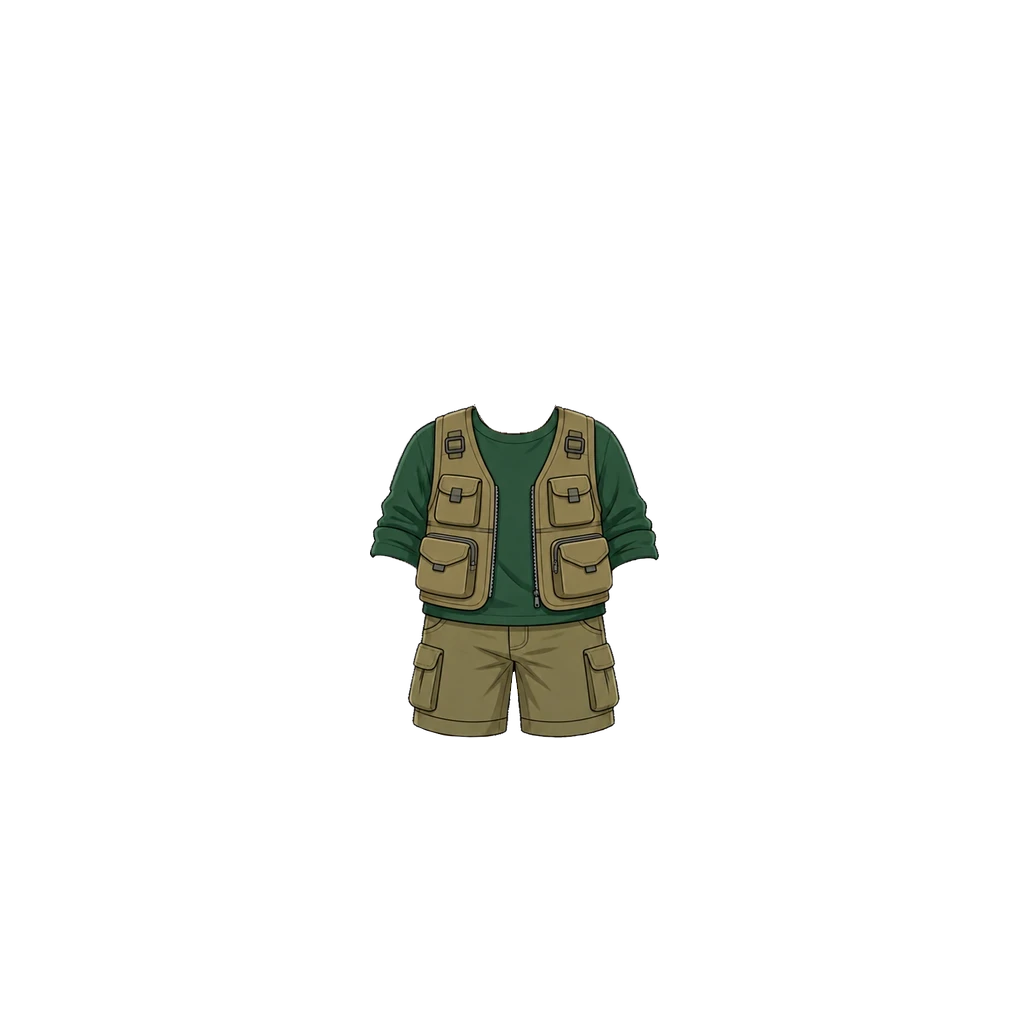
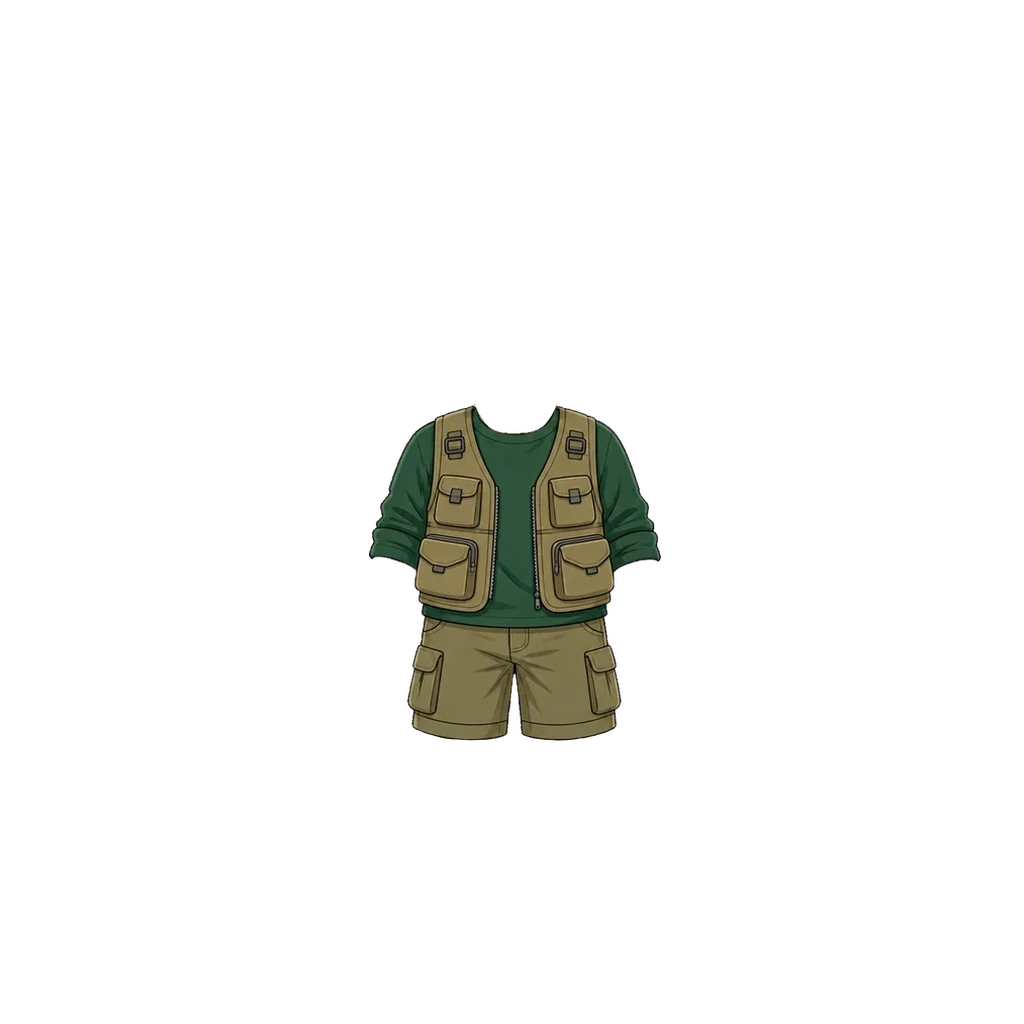
남아 사파리 옷: 1% 확대 (#742)
* 해적 신발 크기·위치 재조정 (베이스 다리 비율에 맞춤)

- 해적 남아 원화와 비교해 베이스가 다리가 짧고 가늘어서, 신발 높이를 112로
  줄이고 윗선을 y827에 맞춤(발바닥 y939)
- 왼짝·오른짝을 따로 배치해 발별로 미세 조정할 수 있게 함
- 같은 파일명이라 경로에 ?v=2

Claude-Session: https://claude.ai/code/session_018maNuYqDfFyRSe9uKpZhPR

* 오늘의 발견을 수첩에 붙인 메모지 디자인으로 변경

- 크림색 종이 질감 + 연두 마스킹테이프, 테두리 없이 그림자·거친 가장자리로만 표현
- 수첩보다 살짝 좁게, '오늘의 발견'은 작게 · 발견 내용은 진한 갈색으로 크게
- 도감 버튼을 오른쪽 작은 알약 버튼(도감 N개 ›)으로
- '탐험일지' 머리말 아래 · 수첩 바로 위로 이동
- App.jsx에서 DiscoveryMemo 컴포넌트로 분리

Claude-Session: https://claude.ai/code/session_018maNuYqDfFyRSe9uKpZhPR

* 오늘의 발견 메모지: 글씨 줄이고 테이프를 왼쪽 위 모서리 대각선으로

- 발견 내용 16.5 → 14 (폰에서 짧은 힌트도 두 줄로 꺾이던 문제), 머리말·도감 버튼·아이콘도 한 단계씩
- 위쪽 가운데 테이프가 '탐험일지' 머리말 줄과 겹쳐 보여 왼쪽 위 모서리에 대각선으로

Claude-Session: https://claude.ai/code/session_018maNuYqDfFyRSe9uKpZhPR

* 오늘의 발견 메모지: 힌트 날의 발자국 아이콘 제거

발자국 자리만큼 힌트가 한 줄에 더 들어가게 함. 찾은 날의 발견 이모지는 유지.

Claude-Session: https://claude.ai/code/session_018maNuYqDfFyRSe9uKpZhPR

* 남아 아바타 기본 몸체 새 버전으로 교체

사용자 제공 원화(갈색 짧은 머리)로 body.webp 업데이트.
버전을 v8 → v9로 올려 기존 기기 캐시 무효화.
art-src/body-boy-src.webp에 원본 보관 (webp q92).

Claude-Session: https://claude.ai/code/session_018maNuYqDfFyRSe9uKpZhPR

* 남아 베이스 v9 탑재 바로잡기 (머리 겹침·비율 깨짐 수정)

직전 커밋은 원화(머리 포함 전신)를 1024×1024로 통째로 늘려 body.webp에 넣어
베이스 머리가 그 위에 또 그려지고 몸 비율도 깨졌다. v8과 같은 공식으로 다시 탑재:
- 알파 상자를 v8 자리(y89~942, 가로 중심 512)에 맞춤 — 실루엣 IoU 0.976이라 장비 재조정 불필요
- y405에서 가로로 잘라 head/body, 합본 default까지 3장 교체, 경로 ?v=9
- art-src: base-v9-boy-src.webp로 이름 정리, 규칙 6에 따라 base-v8-boy-src 삭제
[…]

Changed region(s): [[0.375, 0.4062, 0.6562, 0.75]]

diff --git a/src/data/avatarEquipment.js b/src/data/avatarEquipment.js
@@ -208,9 +208,10 @@ export const AVATAR_CATALOG = [
      베이스 v9 남아에 맞춰 배율 0.65 · 가로 1.02배 · 위끝 y402 · 중심 515 로 넣은 뒤, 사용자가 격자로 보며
      2% 키우고 2px 내려 확정 — 배율 0.663 · 가로 1.02배 · 위끝 y404 · 중심 515 (art-src/README 참고).
      [2026-10-02] 다시 1% 줄이고 왼쪽 1px(배율 0.6564 · 중심 514) → 사용자가 그 판의 어깨를 직접 늘려
-     보내 준 그림을 그대로 (370,404) 에 얹었다(safari-boy-outfit-edit-src).
-     가랑이 V 메움은 하지 않는다 — 사용자가 기본 아바타를 바꿀 예정이라 (사용자 확정). */
-  { id: "top_vest",       slot: "top",   label: "사파리 옷",   emoji: "🦺", price:DECOR_PRICE.rare, rarity: "rare",   theme: "adventure", coversBottom: true, img: "assets/avatar/top/safari-outfit-boy.webp?v=8", imgGirl: "assets/avatar/top/safari-outfit-girl.webp?v=4", thumb: "assets/avatar/thumb/top_vest.webp?v=4", thumbGirl: "assets/avatar/thumb/top_vest-girl.webp" },
+     보내 주신 손질본을 (369,404) 에 1% 확대해서 얹었다(safari-boy-outfit-edit-src).
+     배율 0.663 · 가로 1.02배 · 중심 x516. 가랑이 V 메움은 하지 않는다 — 사용자가
+     기본 아바타를 바꿀 예정이라. 새 베이스 올 때 다시 맞춘다 (사용자 확정). */
+  { id: "top_vest",       slot: "top",   label: "사파리 옷",   emoji: "🦺", price:DECOR_PRICE.rare, rarity: "rare",   theme: "adventure", coversBottom: true, img: "assets/avatar/top/safari-outfit-boy.webp?v=9", imgGirl: "assets/avatar/top/safari-outfit-girl.webp?v=4", thumb: "assets/avatar/thumb/top_vest.webp?v=5", thumbGirl: "assets/avatar/thumb/top_vest-girl.webp" },
 
   /* ── 딸기 소풍 · 별빛 마법사 (여아) — 사용자 원화 2026-08-19 ─────────────
      이 두 벌은 원화를 **베이스 v7 여아가 입은 전신 그림**으로 받았다. 그래서 배율을

diff --git a/art-src/README.md b/art-src/README.md
@@ -375,7 +375,7 @@ getBoundingClientRect로 재서 정한다. 2026-08-05 점검에서 이 기준을
 | picnic-girl-set-worn-src.webp | **딸기 소풍 세트 전신 그림 여아 (사용자 원화 2026-08-20)** — 860×1829, 알파가 머리 부분만 살아 있어서 **RGB의 검정 배경을 흘려 지워** 썼다. 여기서 신발(발목 아래)만 떼어냈다. 바구니는 손에 가려 조각나서 못 썼다 | **(넣었다가 상점에서 뺌 2026-08-20)** — 그림은 avatar/shoes/picnic-shoes-girl.webp 에 그대로 있다 |
 | pirate-girl-hat-worn-src.webp | **해적 모자 원화 여아 (사용자 원화 2026-08-20)** — 베이스 v7 여아가 **쓰고 있는 머리 그림**(664×592, 투명). 남색 삼각모 + 주황 테두리 + 불가사리. 얼굴 상자로 맞춤(배율 0.6336) · 탑재 상자 (313,58)-(723,329) | avatar/hat/pirate-hat-girl.webp |
 | safari-boy-outfit-src.webp | **사파리 옷 원화 남아 v2 (사용자 원화 2026-10-02)** — 493×594, 투명 배경, **옷만 오려 낸 그림**(알파 상자 (30,36)-(462,558)). 초록 긴소매(팔꿈치까지 걷음) 티셔츠 + 카키 카고 조끼 + 카키 카고 반바지. 예전 판(크림 셔츠 + 탄색 조끼)을 대체했고 규칙 6에 따라 같은 이름으로 덮어썼다. **목 살 떼기** — 원화 깃 위로 목·쇄골 살이 그려져 있어, 가장 큰 살색 덩어리의 열 범위에서 초록 깃의 위끝을 4차 곡선으로 매끈하게 이은 선 위를 전부 지우고 그 자리에 2px 짙은 갈색(58,44,34) 깃선을 다시 그렸다 — 베이스의 목이 그대로 보인다. **맞춤** — 베이스 v9 남아 기준, 배율·가로배·위치를 격자로 훑어 "안 가려진 흰 속옷×3 + 안 가려진 어깨(y420~540) + 목 살 덮음 + 몸 밖 불룩×0.5"가 최소인 값: 배율 **0.65** · 가로 **1.02배** · 위끝 **y402** · 가로 중심 **515** → 탑재 상자 (372,402)-(658,733). 소매 끝이 팔꿈치(y≈560), 반바지 끝이 허벅지 가운데. **가랑이 V 메움** — y640~715 · x480~550 에서 "베이스 불투명 + 옷 알파<250" 116px 을 반바지 색 (124,114,74) 으로 채웠다(흰 속옷이 비치던 자리). 자홍 배경 검사: 연결 조각 1 · 안쪽 구멍 0. **[사용자 확정 2026-10-02] 격자로 보며 미세 조정** — 3px 내림 → 2% 키움 → 1px 올림 → 배율 **0.663** · 가로 1.02배 · 위끝 **y404** · 중심 515 → 탑재 상자 **(369,404)-(661,741)**. 가랑이 메움은 같은 규칙으로 64px. 몸통 쪽 안 가려진 속옷 1px. 경로 ?v=6 | avatar/top/safari-outfit-boy.webp · thumb/top_vest.webp |
-| safari-boy-outfit-edit-src.webp | **사파리 옷 남아 — 사용자 손질본 (2026-10-02)**. 위 원화를 배율 0.6564 · 가로 1.02배 · 위끝 y404 · 중심 x514 로 얹은 판을 알파 상자대로 잘라(290×335) 보내 드렸더니, 사용자가 **어깨만 살짝 늘려** 돌려준 그림. 캔버스 크기가 그대로라 (370,404) 에 놓으면 원래 판과 어긋남 0 으로 겹친다(알파 차이 379px — 전부 어깨·소매 둘레). **탑재본은 이 그림을 그대로 쓴다** — 원화(위 행)에서 다시 만들면 어깨 손질이 사라진다. **가랑이 V 메움은 하지 않는다 [사용자 확정 2026-10-02]** — 손질본에는 메움이 빠져 있어 베이스 흰 속옷이 76px 비친다. 한 번 다시 채웠다가(?v=7) 사용자가 "기본 아바타를 바꿀 것이니 메우지 말라"고 해서 손질본 그대로 되돌렸다. 새 베이스가 오면 그때 다시 본다. 경로 ?v=8 · 썸네일 ?v=4 | avatar/top/safari-outfit-boy.webp · thumb/top_vest.webp |
+| safari-boy-outfit-edit-src.webp | **사파리 옷 남아 — 사용자 손질본 (2026-10-02)**. 위 원화를 배율 0.6564 · 가로 1.02배 · 위끝 y404 · 중심 x514 로 얹은 판을 알파 상자대로 잘라(290×335) 보내 드렸더니, 사용자가 **어깨만 살짝 늘려** 돌려준 그림. 캔버스 크기가 그대로라 (370,404) 에 놓으면 원래 판과 어긋남 0 으로 겹친다(알파 차이 379px — 전부 어깨·소매 둘레). **탑재본은 이 그림을 그대로 쓴다** — 원화(위 행)에서 다시 만들면 어깨 손질이 사라진다. **[2026-10-02 재조정]** 손질본을 **1% 확대** — 배율 0.663 · 가로 1.02배 · 위끝 y404 · 중심 x516 (박스 369,404-662,742). 가랑이 V 메움은 하지 않는다 (사용자 확정). 경로 ?v=9 · 썸네일 ?v=5 | avatar/top/safari-outfit-boy.webp · thumb/top_vest.webp |
 | safari-girl-band-worn-src.webp | **사파리 머리띠 원화 여아 v2 (사용자 원화 2026-08-20)** — 베이스 v7 여아가 **쓰고 있는 머리 그림**(512×512, 투명). 초록 리본 머리띠 + 관자놀이 데이지. 예전 '머리띠만 오려 낸' 원화(safari-girl-band-src)는 지웠다 | avatar/hat/safari-band-girl.webp |
 | safari-girl-outfit-src.webp | 사파리 옷 원화 여아 — 블라우스+반바지 한 장 (현행) | avatar/top/safari-outfit-girl.webp |
 | safari-girl-boot-src.webp | 사파리 부츠 원화 여아 한 짝 (정면, 좌우 반전해서 한 켤레로) | **(상점에서 뺌 2026-08-20)** — 그림은 avatar/shoes/safari-boots-girl.webp 에 그대로 있다. 다시 넣을 때 재사용 |
